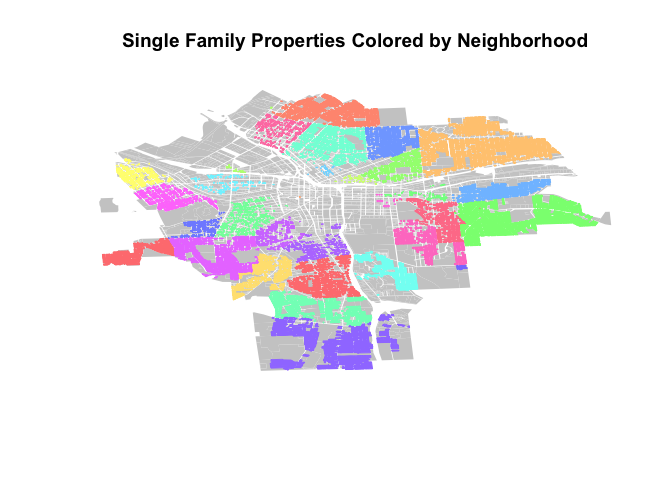
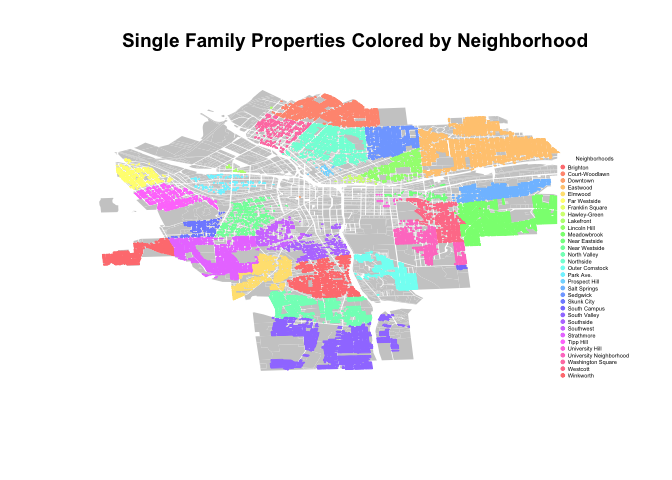
added legend to neighborhood map

Changed region(s): [[0.8125, 0.3125, 0.9375, 0.8125]]

diff --git a/Lab4-updated.md b/Lab4-updated.md
@@ -234,6 +234,12 @@ palette(rainbowcols)
 not.single.fam <- syr[syr$LandUse != "Single Family", ]
 plot(not.single.fam, col="gray80", border=F, main="Single Family Properties Colored by Neighborhood")
 plot( singlefamily, border=singlefamily$Nhood, col=singlefamily$Nhood, add=T)
+legend( "bottomright", bg="white",
+        pch=19, pt.cex=.5, cex=0.35,
+        legend=levels(singlefamily$Nhood), 
+        col=rainbowcols, 
+        box.col="white",
+        title="Neighborhoods") 
 ```
 
 ![](Lab4-updated_files/figure-markdown_github/unnamed-chunk-2-1.png)
